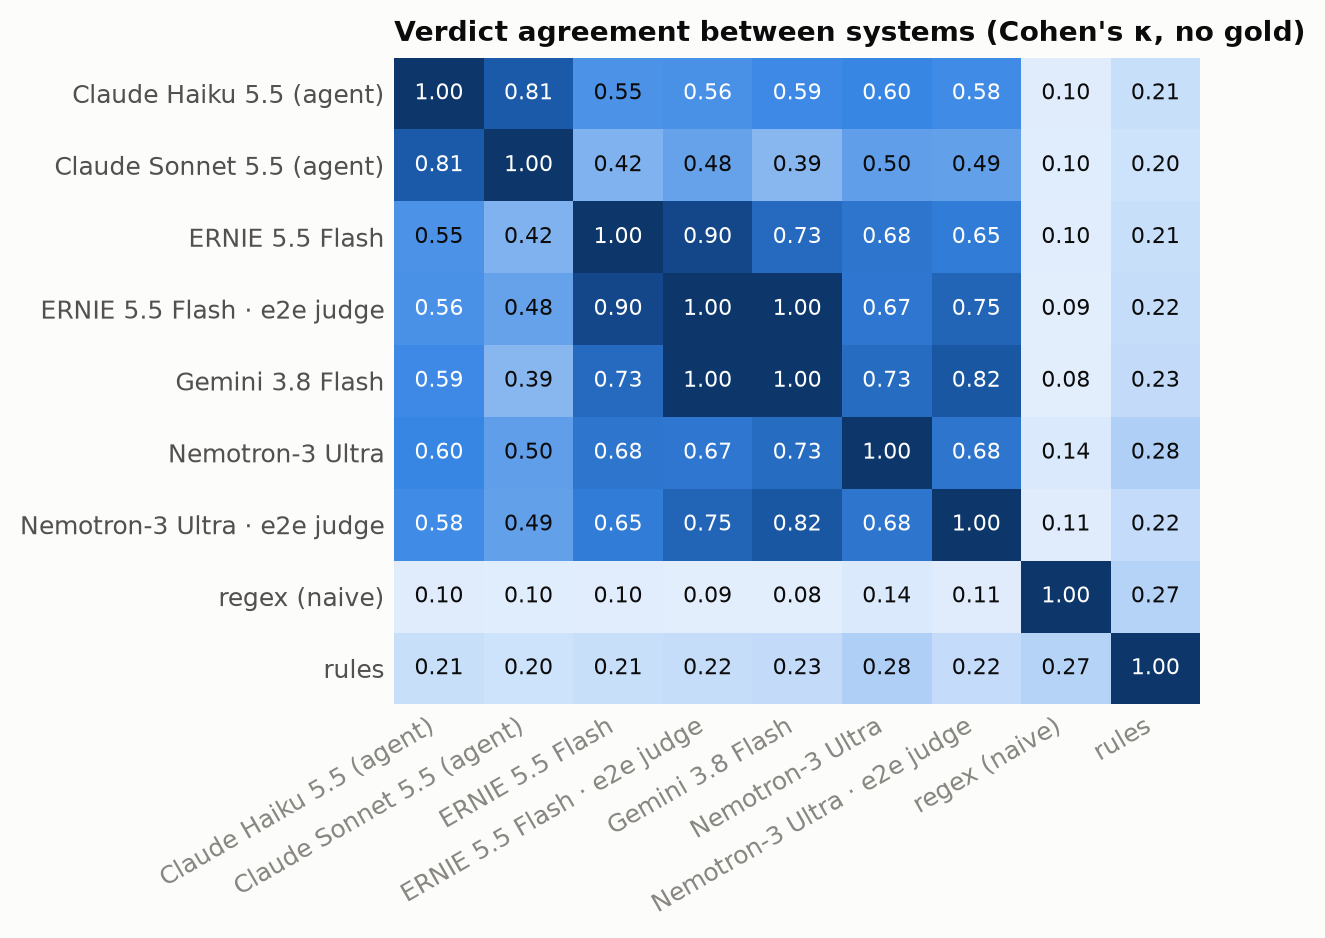
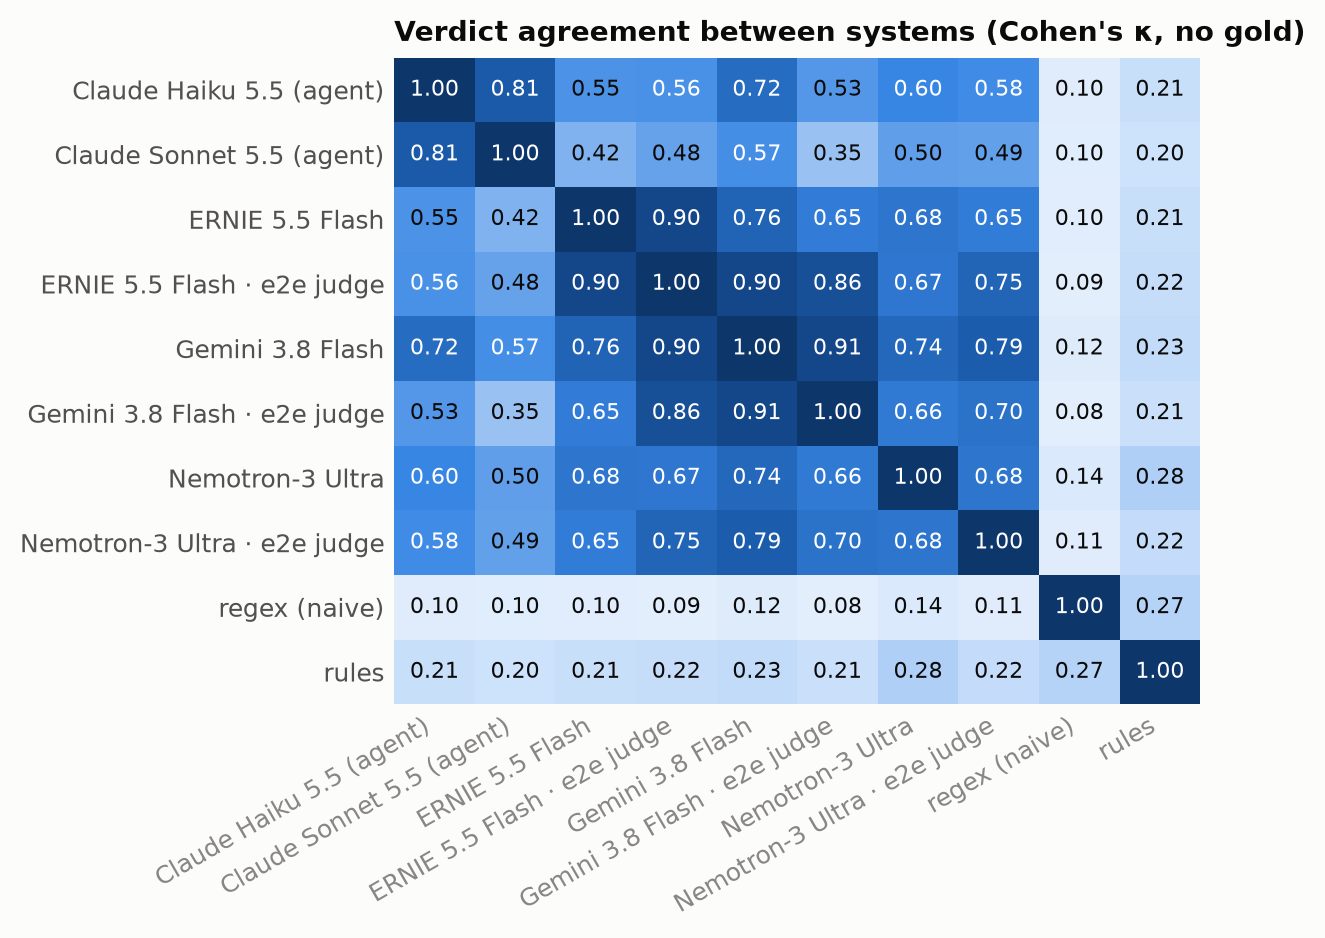
Gemini e2e judge ablation; per-model judge effect in report
Claude-Session: https://claude.ai/code/session_01VHpCaxaGeUmDU5sdezn7sj

diff --git a/results/metrics.md b/results/metrics.md
@@ -53,7 +53,7 @@ Labels: 164 checked sentences (2 duplicate sentences dropped), 75 with ≥1 in-s
 | baidu__ernie-5.5-flash-preview_free__e2e | 124/164 | 0.97 | 0.99 | 0.98 | 0.87 | 0.76 [0.31, 0.88] | 0 | 0 | 0 |
 | baidu__ernie-5.5-flash-preview_free__persentence | 10/164 | 1.00 | 1.00 | 1.00 | 1.00 | 0.33 [0.00, 0.33] | 0 | 0 | 0 |
 | gemini__gemini-3.8-flash | 164/164 | 0.99 | 0.99 | 0.99 | 0.87 | 0.68 [0.37, 0.86] | 0 | 1 | 0 |
-| gemini__gemini-3.8-flash__e2e | 40/164 | 1.00 | 0.77 | 0.87 | 0.77 | 0.30 [0.25, 0.33] | 0 | 0 | 0 |
+| gemini__gemini-3.8-flash__e2e | 144/164 | 0.99 | 0.96 | 0.98 | 0.88 | 0.65 [0.32, 0.85] | 0 | 1 | 0 |
 | liquid__lfm-3-1.7b_free | 38/164 | 0.92 | 0.85 | 0.88 | 0.79 | 0.29 [0.24, 0.33] | 0 | 0 | 0 |
 | nvidia__nemotron-3-ultra-550b-a55b_free | 164/164 | 0.92 | 1.00 | 0.96 | 0.80 | 0.50 [0.36, 0.70] | 7 | 1 | 0 |
 | nvidia__nemotron-3-ultra-550b-a55b_free__e2e | 164/164 | 0.99 | 0.98 | 0.98 | 0.85 | 0.62 [0.31, 0.80] | 0 | 1 | 0 |
@@ -62,37 +62,37 @@ Labels: 164 checked sentences (2 duplicate sentences dropped), 75 with ≥1 in-s
 
 ## Error taxonomy (one cause per disagreement with gold)
 
-| system | wrong period | other out-of-scope figure | target / projection | missed claim | core / component inflation | wrong value | mtm read as y-on-y | regional figure | q-to-q / c-to-c read as y-on-y | ytd read as y-on-y |
+| system | wrong period | other out-of-scope figure | target / projection | missed claim | core / component inflation | mtm read as y-on-y | wrong value | regional figure | q-to-q / c-to-c read as y-on-y | ytd read as y-on-y |
 |---|---|---|---|---|---|---|---|---|---|---|
 | anthropic__claude-haiku-5.5__agent | 12 | 0 | 0 | 1 | 0 | 0 | 0 | 0 | 0 | 0 |
 | anthropic__claude-sonnet-5.5__agent | 6 | 0 | 0 | 1 | 0 | 0 | 0 | 0 | 0 | 0 |
 | baidu__ernie-5.5-flash-preview_free | 15 | 2 | 1 | 3 | 0 | 0 | 0 | 0 | 1 | 0 |
-| baidu__ernie-5.5-flash-preview_free__e2e | 7 | 0 | 1 | 0 | 0 | 1 | 0 | 0 | 0 | 0 |
+| baidu__ernie-5.5-flash-preview_free__e2e | 7 | 0 | 1 | 0 | 0 | 0 | 1 | 0 | 0 | 0 |
 | baidu__ernie-5.5-flash-preview_free__persentence | 0 | 0 | 0 | 0 | 0 | 0 | 0 | 0 | 0 | 0 |
 | gemini__gemini-3.8-flash | 12 | 0 | 1 | 1 | 0 | 0 | 0 | 0 | 0 | 0 |
-| gemini__gemini-3.8-flash__e2e | 0 | 0 | 0 | 3 | 0 | 0 | 0 | 0 | 0 | 0 |
+| gemini__gemini-3.8-flash__e2e | 7 | 0 | 1 | 3 | 0 | 0 | 0 | 0 | 0 | 0 |
 | liquid__lfm-3-1.7b_free | 0 | 1 | 0 | 2 | 0 | 0 | 0 | 0 | 0 | 0 |
-| nvidia__nemotron-3-ultra-550b-a55b_free | 14 | 3 | 0 | 0 | 0 | 0 | 5 | 0 | 0 | 0 |
+| nvidia__nemotron-3-ultra-550b-a55b_free | 14 | 3 | 0 | 0 | 0 | 5 | 0 | 0 | 0 | 0 |
 | nvidia__nemotron-3-ultra-550b-a55b_free__e2e | 12 | 1 | 0 | 2 | 0 | 0 | 0 | 0 | 0 | 0 |
 | regex | 22 | 43 | 15 | 19 | 15 | 4 | 4 | 6 | 3 | 3 |
-| rules | 36 | 58 | 18 | 2 | 6 | 13 | 9 | 2 | 1 | 0 |
+| rules | 36 | 58 | 18 | 2 | 6 | 9 | 13 | 2 | 1 | 0 |
 
 ## Model–model agreement (verdict-level Cohen's κ on claims both processed; no gold needed)
 
 | | anthropic__claude-haiku-5.5__agent | anthropic__claude-sonnet-5.5__agent | baidu__ernie-5.5-flash-preview_free | baidu__ernie-5.5-flash-preview_free__e2e | baidu__ernie-5.5-flash-preview_free__persentence | gemini__gemini-3.8-flash | gemini__gemini-3.8-flash__e2e | liquid__lfm-3-1.7b_free | nvidia__nemotron-3-ultra-550b-a55b_free | nvidia__nemotron-3-ultra-550b-a55b_free__e2e | regex | rules |
 |---|---|---|---|---|---|---|---|---|---|---|---|---|
-| anthropic__claude-haiku-5.5__agent | 1.00 | 0.81 | 0.55 | 0.56 | 1.00 | 0.72 | 0.34 | -0.11 | 0.60 | 0.58 | 0.10 | 0.21 |
-| anthropic__claude-sonnet-5.5__agent | 0.81 | 1.00 | 0.42 | 0.48 | 1.00 | 0.57 | 0.20 | -0.11 | 0.50 | 0.49 | 0.10 | 0.20 |
-| baidu__ernie-5.5-flash-preview_free | 0.55 | 0.42 | 1.00 | 0.90 | 1.00 | 0.76 | 0.34 | 0.16 | 0.68 | 0.65 | 0.10 | 0.21 |
-| baidu__ernie-5.5-flash-preview_free__e2e | 0.56 | 0.48 | 0.90 | 1.00 | 1.00 | 0.90 | 1.00 | -0.15 | 0.67 | 0.75 | 0.09 | 0.22 |
+| anthropic__claude-haiku-5.5__agent | 1.00 | 0.81 | 0.55 | 0.56 | 1.00 | 0.72 | 0.53 | -0.11 | 0.60 | 0.58 | 0.10 | 0.21 |
+| anthropic__claude-sonnet-5.5__agent | 0.81 | 1.00 | 0.42 | 0.48 | 1.00 | 0.57 | 0.35 | -0.11 | 0.50 | 0.49 | 0.10 | 0.20 |
+| baidu__ernie-5.5-flash-preview_free | 0.55 | 0.42 | 1.00 | 0.90 | 1.00 | 0.76 | 0.65 | 0.16 | 0.68 | 0.65 | 0.10 | 0.21 |
+| baidu__ernie-5.5-flash-preview_free__e2e | 0.56 | 0.48 | 0.90 | 1.00 | 1.00 | 0.90 | 0.86 | -0.15 | 0.67 | 0.75 | 0.09 | 0.22 |
 | baidu__ernie-5.5-flash-preview_free__persentence | 1.00 | 1.00 | 1.00 | 1.00 | 1.00 | 1.00 | 1.00 | 1.00 | 0.18 | 1.00 | 0.17 | 0.12 |
-| gemini__gemini-3.8-flash | 0.72 | 0.57 | 0.76 | 0.90 | 1.00 | 1.00 | 0.45 | -0.11 | 0.74 | 0.79 | 0.12 | 0.23 |
-| gemini__gemini-3.8-flash__e2e | 0.34 | 0.20 | 0.34 | 1.00 | 1.00 | 0.45 | 1.00 | -0.12 | 0.29 | 0.35 | 0.14 | 0.11 |
-| liquid__lfm-3-1.7b_free | -0.11 | -0.11 | 0.16 | -0.15 | 1.00 | -0.11 | -0.12 | 1.00 | 0.27 | 0.00 | 0.11 | 0.09 |
-| nvidia__nemotron-3-ultra-550b-a55b_free | 0.60 | 0.50 | 0.68 | 0.67 | 0.18 | 0.74 | 0.29 | 0.27 | 1.00 | 0.68 | 0.14 | 0.28 |
-| nvidia__nemotron-3-ultra-550b-a55b_free__e2e | 0.58 | 0.49 | 0.65 | 0.75 | 1.00 | 0.79 | 0.35 | 0.00 | 0.68 | 1.00 | 0.11 | 0.22 |
-| regex | 0.10 | 0.10 | 0.10 | 0.09 | 0.17 | 0.12 | 0.14 | 0.11 | 0.14 | 0.11 | 1.00 | 0.27 |
-| rules | 0.21 | 0.20 | 0.21 | 0.22 | 0.12 | 0.23 | 0.11 | 0.09 | 0.28 | 0.22 | 0.27 | 1.00 |
+| gemini__gemini-3.8-flash | 0.72 | 0.57 | 0.76 | 0.90 | 1.00 | 1.00 | 0.91 | -0.11 | 0.74 | 0.79 | 0.12 | 0.23 |
+| gemini__gemini-3.8-flash__e2e | 0.53 | 0.35 | 0.65 | 0.86 | 1.00 | 0.91 | 1.00 | -0.11 | 0.66 | 0.70 | 0.08 | 0.21 |
+| liquid__lfm-3-1.7b_free | -0.11 | -0.11 | 0.16 | -0.15 | 1.00 | -0.11 | -0.11 | 1.00 | 0.27 | 0.00 | 0.11 | 0.09 |
+| nvidia__nemotron-3-ultra-550b-a55b_free | 0.60 | 0.50 | 0.68 | 0.67 | 0.18 | 0.74 | 0.66 | 0.27 | 1.00 | 0.68 | 0.14 | 0.28 |
+| nvidia__nemotron-3-ultra-550b-a55b_free__e2e | 0.58 | 0.49 | 0.65 | 0.75 | 1.00 | 0.79 | 0.70 | 0.00 | 0.68 | 1.00 | 0.11 | 0.22 |
+| regex | 0.10 | 0.10 | 0.10 | 0.09 | 0.17 | 0.12 | 0.08 | 0.11 | 0.14 | 0.11 | 1.00 | 0.27 |
+| rules | 0.21 | 0.20 | 0.21 | 0.22 | 0.12 | 0.23 | 0.21 | 0.09 | 0.28 | 0.22 | 0.27 | 1.00 |
 
 ## Human adjudication (7 hardest sentences: the annotator vs the systems' majority)
 
@@ -106,7 +106,7 @@ Exact-tuple agreement with the human decision (indicator, period, value).
 | baidu__ernie-5.5-flash-preview_free | 1/7 |
 | baidu__ernie-5.5-flash-preview_free__e2e | 1/4 |
 | gemini__gemini-3.8-flash | 1/7 |
-| gemini__gemini-3.8-flash__e2e | 0/1 |
+| gemini__gemini-3.8-flash__e2e | 1/4 |
 | nvidia__nemotron-3-ultra-550b-a55b_free | 1/7 |
 | nvidia__nemotron-3-ultra-550b-a55b_free__e2e | 0/7 |
 | regex | 1/7 |
@@ -172,10 +172,10 @@ Exact-tuple agreement with the human decision (indicator, period, value).
 
 | | MATCH | MISMATCH | UNVERIFIABLE | NONE |
 |---|---|---|---|---|
-| **MATCH** | 10 | 0 | 0 | 2 |
-| **MISMATCH** | 0 | 0 | 0 | 0 |
-| **UNVERIFIABLE** | 0 | 0 | 0 | 1 |
-| **NONE** | 0 | 0 | 0 | 0 |
+| **MATCH** | 71 | 0 | 5 | 2 |
+| **MISMATCH** | 0 | 1 | 1 | 0 |
+| **UNVERIFIABLE** | 0 | 0 | 2 | 1 |
+| **NONE** | 0 | 0 | 1 | 0 |
 
 ### liquid__lfm-3-1.7b_free (rows = gold, cols = system)
 

diff --git a/results/silver_metrics.md b/results/silver_metrics.md
@@ -52,6 +52,8 @@ Labels: 164 checked sentences (2 duplicate sentences dropped), 75 with ≥1 in-s
 | baidu__ernie-5.5-flash-preview_free | 164/164 | 0.96 | 0.97 | 0.96 | 0.84 | 0.83 [0.42, 0.91] | 0 | 0 | 2 |
 | baidu__ernie-5.5-flash-preview_free__e2e | 124/164 | 0.97 | 0.99 | 0.98 | 0.90 | 0.84 [0.40, 0.96] | 0 | 0 | 0 |
 | baidu__ernie-5.5-flash-preview_free__persentence | 10/164 | 1.00 | 1.00 | 1.00 | 1.00 | 0.33 [0.00, 0.33] | 0 | 0 | 0 |
+| gemini__gemini-3.8-flash | 164/164 | 0.99 | 0.99 | 0.99 | 0.91 | 0.86 [0.45, 0.94] | 0 | 0 | 0 |
+| gemini__gemini-3.8-flash__e2e | 144/164 | 0.99 | 0.96 | 0.98 | 0.88 | 0.76 [0.32, 0.88] | 0 | 0 | 0 |
 | liquid__lfm-3-1.7b_free | 38/164 | 0.92 | 0.85 | 0.88 | 0.79 | 0.29 [0.24, 0.33] | 0 | 0 | 0 |
 | nvidia__nemotron-3-ultra-550b-a55b_free | 164/164 | 0.92 | 1.00 | 0.96 | 0.83 | 0.58 [0.43, 0.82] | 7 | 0 | 0 |
 | nvidia__nemotron-3-ultra-550b-a55b_free__e2e | 164/164 | 0.99 | 0.98 | 0.98 | 0.89 | 0.83 [0.41, 0.91] | 0 | 0 | 0 |
@@ -67,6 +69,8 @@ Labels: 164 checked sentences (2 duplicate sentences dropped), 75 with ≥1 in-s
 | baidu__ernie-5.5-flash-preview_free | 16 | 2 | 1 | 3 | 0 | 0 | 0 | 0 | 1 | 0 |
 | baidu__ernie-5.5-flash-preview_free__e2e | 8 | 0 | 1 | 0 | 0 | 0 | 1 | 0 | 0 | 0 |
 | baidu__ernie-5.5-flash-preview_free__persentence | 0 | 0 | 0 | 0 | 0 | 0 | 0 | 0 | 0 | 0 |
+| gemini__gemini-3.8-flash | 13 | 0 | 1 | 1 | 0 | 0 | 0 | 0 | 0 | 0 |
+| gemini__gemini-3.8-flash__e2e | 7 | 0 | 1 | 3 | 0 | 0 | 0 | 0 | 0 | 0 |
 | liquid__lfm-3-1.7b_free | 0 | 1 | 0 | 2 | 0 | 0 | 0 | 0 | 0 | 0 |
 | nvidia__nemotron-3-ultra-550b-a55b_free | 14 | 3 | 0 | 0 | 0 | 5 | 0 | 0 | 0 | 0 |
 | nvidia__nemotron-3-ultra-550b-a55b_free__e2e | 10 | 1 | 0 | 2 | 0 | 0 | 0 | 0 | 0 | 0 |
@@ -75,18 +79,20 @@ Labels: 164 checked sentences (2 duplicate sentences dropped), 75 with ≥1 in-s
 
 ## Model–model agreement (verdict-level Cohen's κ on claims both processed; no gold needed)
 
-| | anthropic__claude-haiku-5.5__agent | anthropic__claude-sonnet-5.5__agent | baidu__ernie-5.5-flash-preview_free | baidu__ernie-5.5-flash-preview_free__e2e | baidu__ernie-5.5-flash-preview_free__persentence | liquid__lfm-3-1.7b_free | nvidia__nemotron-3-ultra-550b-a55b_free | nvidia__nemotron-3-ultra-550b-a55b_free__e2e | regex | rules |
-|---|---|---|---|---|---|---|---|---|---|---|
-| anthropic__claude-haiku-5.5__agent | 1.00 | 0.81 | 0.55 | 0.56 | 1.00 | -0.11 | 0.60 | 0.58 | 0.10 | 0.21 |
-| anthropic__claude-sonnet-5.5__agent | 0.81 | 1.00 | 0.42 | 0.48 | 1.00 | -0.11 | 0.50 | 0.49 | 0.10 | 0.20 |
-| baidu__ernie-5.5-flash-preview_free | 0.55 | 0.42 | 1.00 | 0.90 | 1.00 | 0.16 | 0.68 | 0.65 | 0.10 | 0.21 |
-| baidu__ernie-5.5-flash-preview_free__e2e | 0.56 | 0.48 | 0.90 | 1.00 | 1.00 | -0.15 | 0.67 | 0.75 | 0.09 | 0.22 |
-| baidu__ernie-5.5-flash-preview_free__persentence | 1.00 | 1.00 | 1.00 | 1.00 | 1.00 | 1.00 | 0.18 | 1.00 | 0.17 | 0.12 |
-| liquid__lfm-3-1.7b_free | -0.11 | -0.11 | 0.16 | -0.15 | 1.00 | 1.00 | 0.27 | 0.00 | 0.11 | 0.09 |
-| nvidia__nemotron-3-ultra-550b-a55b_free | 0.60 | 0.50 | 0.68 | 0.67 | 0.18 | 0.27 | 1.00 | 0.68 | 0.14 | 0.28 |
-| nvidia__nemotron-3-ultra-550b-a55b_free__e2e | 0.58 | 0.49 | 0.65 | 0.75 | 1.00 | 0.00 | 0.68 | 1.00 | 0.11 | 0.22 |
-| regex | 0.10 | 0.10 | 0.10 | 0.09 | 0.17 | 0.11 | 0.14 | 0.11 | 1.00 | 0.27 |
-| rules | 0.21 | 0.20 | 0.21 | 0.22 | 0.12 | 0.09 | 0.28 | 0.22 | 0.27 | 1.00 |
+| | anthropic__claude-haiku-5.5__agent | anthropic__claude-sonnet-5.5__agent | baidu__ernie-5.5-flash-preview_free | baidu__ernie-5.5-flash-preview_free__e2e | baidu__ernie-5.5-flash-preview_free__persentence | gemini__gemini-3.8-flash | gemini__gemini-3.8-flash__e2e | liquid__lfm-3-1.7b_free | nvidia__nemotron-3-ultra-550b-a55b_free | nvidia__nemotron-3-ultra-550b-a55b_free__e2e | regex | rules |
+|---|---|---|---|---|---|---|---|---|---|---|---|---|
+| anthropic__claude-haiku-5.5__agent | 1.00 | 0.81 | 0.55 | 0.56 | 1.00 | 0.72 | 0.53 | -0.11 | 0.60 | 0.58 | 0.10 | 0.21 |
+| anthropic__claude-sonnet-5.5__agent | 0.81 | 1.00 | 0.42 | 0.48 | 1.00 | 0.57 | 0.35 | -0.11 | 0.50 | 0.49 | 0.10 | 0.20 |
+| baidu__ernie-5.5-flash-preview_free | 0.55 | 0.42 | 1.00 | 0.90 | 1.00 | 0.76 | 0.65 | 0.16 | 0.68 | 0.65 | 0.10 | 0.21 |
+| baidu__ernie-5.5-flash-preview_free__e2e | 0.56 | 0.48 | 0.90 | 1.00 | 1.00 | 0.90 | 0.86 | -0.15 | 0.67 | 0.75 | 0.09 | 0.22 |
+| baidu__ernie-5.5-flash-preview_free__persentence | 1.00 | 1.00 | 1.00 | 1.00 | 1.00 | 1.00 | 1.00 | 1.00 | 0.18 | 1.00 | 0.17 | 0.12 |
+| gemini__gemini-3.8-flash | 0.72 | 0.57 | 0.76 | 0.90 | 1.00 | 1.00 | 0.91 | -0.11 | 0.74 | 0.79 | 0.12 | 0.23 |
+| gemini__gemini-3.8-flash__e2e | 0.53 | 0.35 | 0.65 | 0.86 | 1.00 | 0.91 | 1.00 | -0.11 | 0.66 | 0.70 | 0.08 | 0.21 |
+| liquid__lfm-3-1.7b_free | -0.11 | -0.11 | 0.16 | -0.15 | 1.00 | -0.11 | -0.11 | 1.00 | 0.27 | 0.00 | 0.11 | 0.09 |
+| nvidia__nemotron-3-ultra-550b-a55b_free | 0.60 | 0.50 | 0.68 | 0.67 | 0.18 | 0.74 | 0.66 | 0.27 | 1.00 | 0.68 | 0.14 | 0.28 |
+| nvidia__nemotron-3-ultra-550b-a55b_free__e2e | 0.58 | 0.49 | 0.65 | 0.75 | 1.00 | 0.79 | 0.70 | 0.00 | 0.68 | 1.00 | 0.11 | 0.22 |
+| regex | 0.10 | 0.10 | 0.10 | 0.09 | 0.17 | 0.12 | 0.08 | 0.11 | 0.14 | 0.11 | 1.00 | 0.27 |
+| rules | 0.21 | 0.20 | 0.21 | 0.22 | 0.12 | 0.23 | 0.21 | 0.09 | 0.28 | 0.22 | 0.27 | 1.00 |
 
 ## Confusion matrices
 
@@ -134,6 +140,24 @@ Labels: 164 checked sentences (2 duplicate sentences dropped), 75 with ≥1 in-s
 | **MISMATCH** | 0 | 0 | 0 | 0 |
 | **UNVERIFIABLE** | 0 | 0 | 0 | 0 |
 | **NONE** | 0 | 0 | 0 | 0 |
+
+### gemini__gemini-3.8-flash (rows = gold, cols = system)
+
+| | MATCH | MISMATCH | UNVERIFIABLE | NONE |
+|---|---|---|---|---|
+| **MATCH** | 78 | 0 | 7 | 1 |
+| **MISMATCH** | 0 | 1 | 0 | 0 |
+| **UNVERIFIABLE** | 0 | 0 | 7 | 0 |
+| **NONE** | 0 | 0 | 1 | 0 |
+
+### gemini__gemini-3.8-flash__e2e (rows = gold, cols = system)
+
+| | MATCH | MISMATCH | UNVERIFIABLE | NONE |
+|---|---|---|---|---|
+| **MATCH** | 71 | 0 | 6 | 2 |
+| **MISMATCH** | 0 | 1 | 0 | 0 |
+| **UNVERIFIABLE** | 0 | 0 | 2 | 1 |
+| **NONE** | 0 | 0 | 1 | 0 |
 
 ### liquid__lfm-3-1.7b_free (rows = gold, cols = system)
 

diff --git a/docs/REPORT_DRAFT.md b/docs/REPORT_DRAFT.md
@@ -200,7 +200,9 @@ Gemma 4 31B was rate-limited (HTTP 429) and was not run, because the quota went 
 
 ### 4.3 LLM-as-judge ablation (e2e)
 
-Nemotron and ERNIE receive the full 104-row table in the prompt and return the verdict themselves under the same written rule. Metrics score their own verdicts. ERNIE's e2e run covers 126/166 sentences: two batches ended at the output limit (`finish_reason=length`) because the table plus 20 sentences is long.
+Nemotron, ERNIE and Gemini receive the full 104-row table in the prompt and return the verdict themselves under the same written rule. Metrics score their own verdicts. Coverage is incomplete for two of them. Some batches hit the output limit (`finish_reason=length`, since the table plus 20 sentences is long), returned malformed JSON, or failed with transient server errors:
+- ERNIE: 126/166 sentences;
+- Gemini: 146/166 sentences.
 
 ### 4.4 Stress tests
 
@@ -284,6 +286,7 @@ Scores against the adjudicated reference (`results/metrics.md`). *Values not in 
 | ERNIE · e2e judge | 124 | 0.98 | 0.87 | 0.76 [0.31, 0.88] | 0 | 0 | 0 |
 | Nemotron-3 Ultra | 164 | 0.96 | 0.80 | 0.50 [0.36, 0.70] | **7** | 1 | 0 |
 | Nemotron · e2e judge | 164 | 0.98 | 0.85 | 0.62 [0.31, 0.80] | 0 | 1 | 0 |
+| Gemini · e2e judge | 144 | 0.98 | 0.88 | 0.65 [0.32, 0.85] | 0 | 1 | 0 |
 | LFM-3 1.7B | 38 | 0.88 | 0.79 | 0.29 [0.24, 0.33] | 0 | 0 | 0 |
 | `rules` | 164 | 0.63 | 0.30 | 0.30 [0.25, 0.34] | **54** | 1 | 0 |
 | `regex` | 164 | 0.54 | 0.27 | 0.27 [0.23, 0.33] | **31** | 1 | 0 |
@@ -329,6 +332,16 @@ Scores against the adjudicated reference (`results/metrics.md`). *Values not in 
 There are 0 false accusations and 0 missed errors. The arithmetic of matching a stated figure to a table is not where systems fail.
 
 **On real sentences, the judge changes the answers.** Nemotron as e2e judge reports 1 MISMATCH where its own extractions, under the deterministic rule, gave 8. Its verdict κ with its own pipeline is 0.68, versus 0.90 for ERNIE. With the answer key in the prompt, the model stops reading month-on-month figures as year-on-year. That would reduce false accusations if those reads were wrong, but it would also *hide* real mismatches if a speaker had actually misstated a number. Against the adjudicated reference, the e2e judge removes all 7 false accusations without missing more mismatches (1 missed, as in the pipeline). On this sample, the answer key helped. But the mechanism, a model reconciling a speaker's claim with the table it was shown, is exactly the one that would hide a real misstatement, and our sample has too few real mismatches (2) to rule that out.
+
+**The judge effect depends on the model.** Verdict κ between each model's own pipeline run and its e2e-judge run:
+
+| Model | κ (pipeline vs e2e) | Sentences | Accuracy, pipeline → e2e |
+|---|---|---|---|
+| Gemini 3.8 Flash | 0.91 | 144 | 0.87 → 0.88 |
+| ERNIE 5.5 Flash | 0.90 | 124 | 0.81 → 0.87 |
+| Nemotron-3 Ultra | 0.68 | 164 | 0.80 → 0.85 |
+
+For two of three models, the answer key barely changes what they extract. For the third it removes a whole class of errors. So the benefit (or risk) of letting an LLM judge with the evidence in view cannot be assumed; it has to be measured per model.
 
 The deterministic design keeps the extraction visible either way.
 
